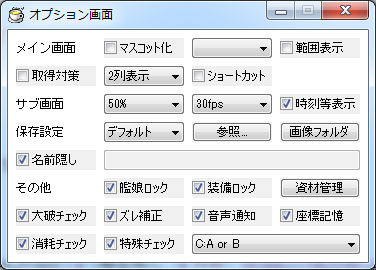
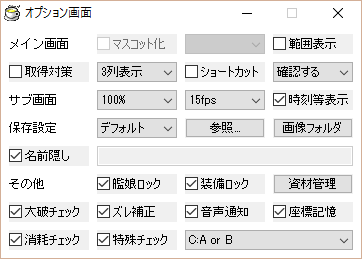
ヘルプを修正した。

diff --git a/help/index.html b/help/index.html
@@ -516,6 +516,13 @@
 					<td><strong>Alt+Zキー</strong>を押すことで、【画像保存】と同じく<strong>スクショが保存</strong>できます。</td>
 				</tr>
 				<tr>
+					<td>未定/確認する/確認しない</td>
+					<td>ソフトのアップデートを確認するかどうかを変更できます。<br>
+					　<strong>「未定」</strong>……起動時に、『確認するかどうか』についてのダイアログを出します。<br>
+					　<strong>「確認する」</strong>……サイト(作者ブログ)にアクセスして確認します。受信のみで送信はしません。<br>
+					　<strong>「確認しない」</strong>……ソフトウェアのアップデートを確認しません。</td>
+				</tr>
+				<tr>
 					<td>倍率</td>
 					<td>サブ画面の、艦これの画面に対する比率を設定します。25・50・75・100・150・200・300％を指定できます。</td>
 				</tr>
@@ -846,7 +853,8 @@
 				<td>・夜戦開始音がきちんと鳴りきるように修正した。<br>
 				・艦隊情報画面で、<strong>装備改修度</strong>も読み取れるようにした。<br>
 				・周回作業用に<strong>疲労回復タイマー</strong>を実装した。<br>
-				・ソフトのログを、年月の区切りでフォルダ分けして保存するようにした。</td>
+				・ソフトのログを、年月の区切りでフォルダ分けして保存するようにした。<br>
+				・<strong>起動時に更新チェックできるようにした</strong>(オプションで切り替え可能)。</td>
 			</tr>
 			<tr>
 				<td>Ver.3.3.1</td>
